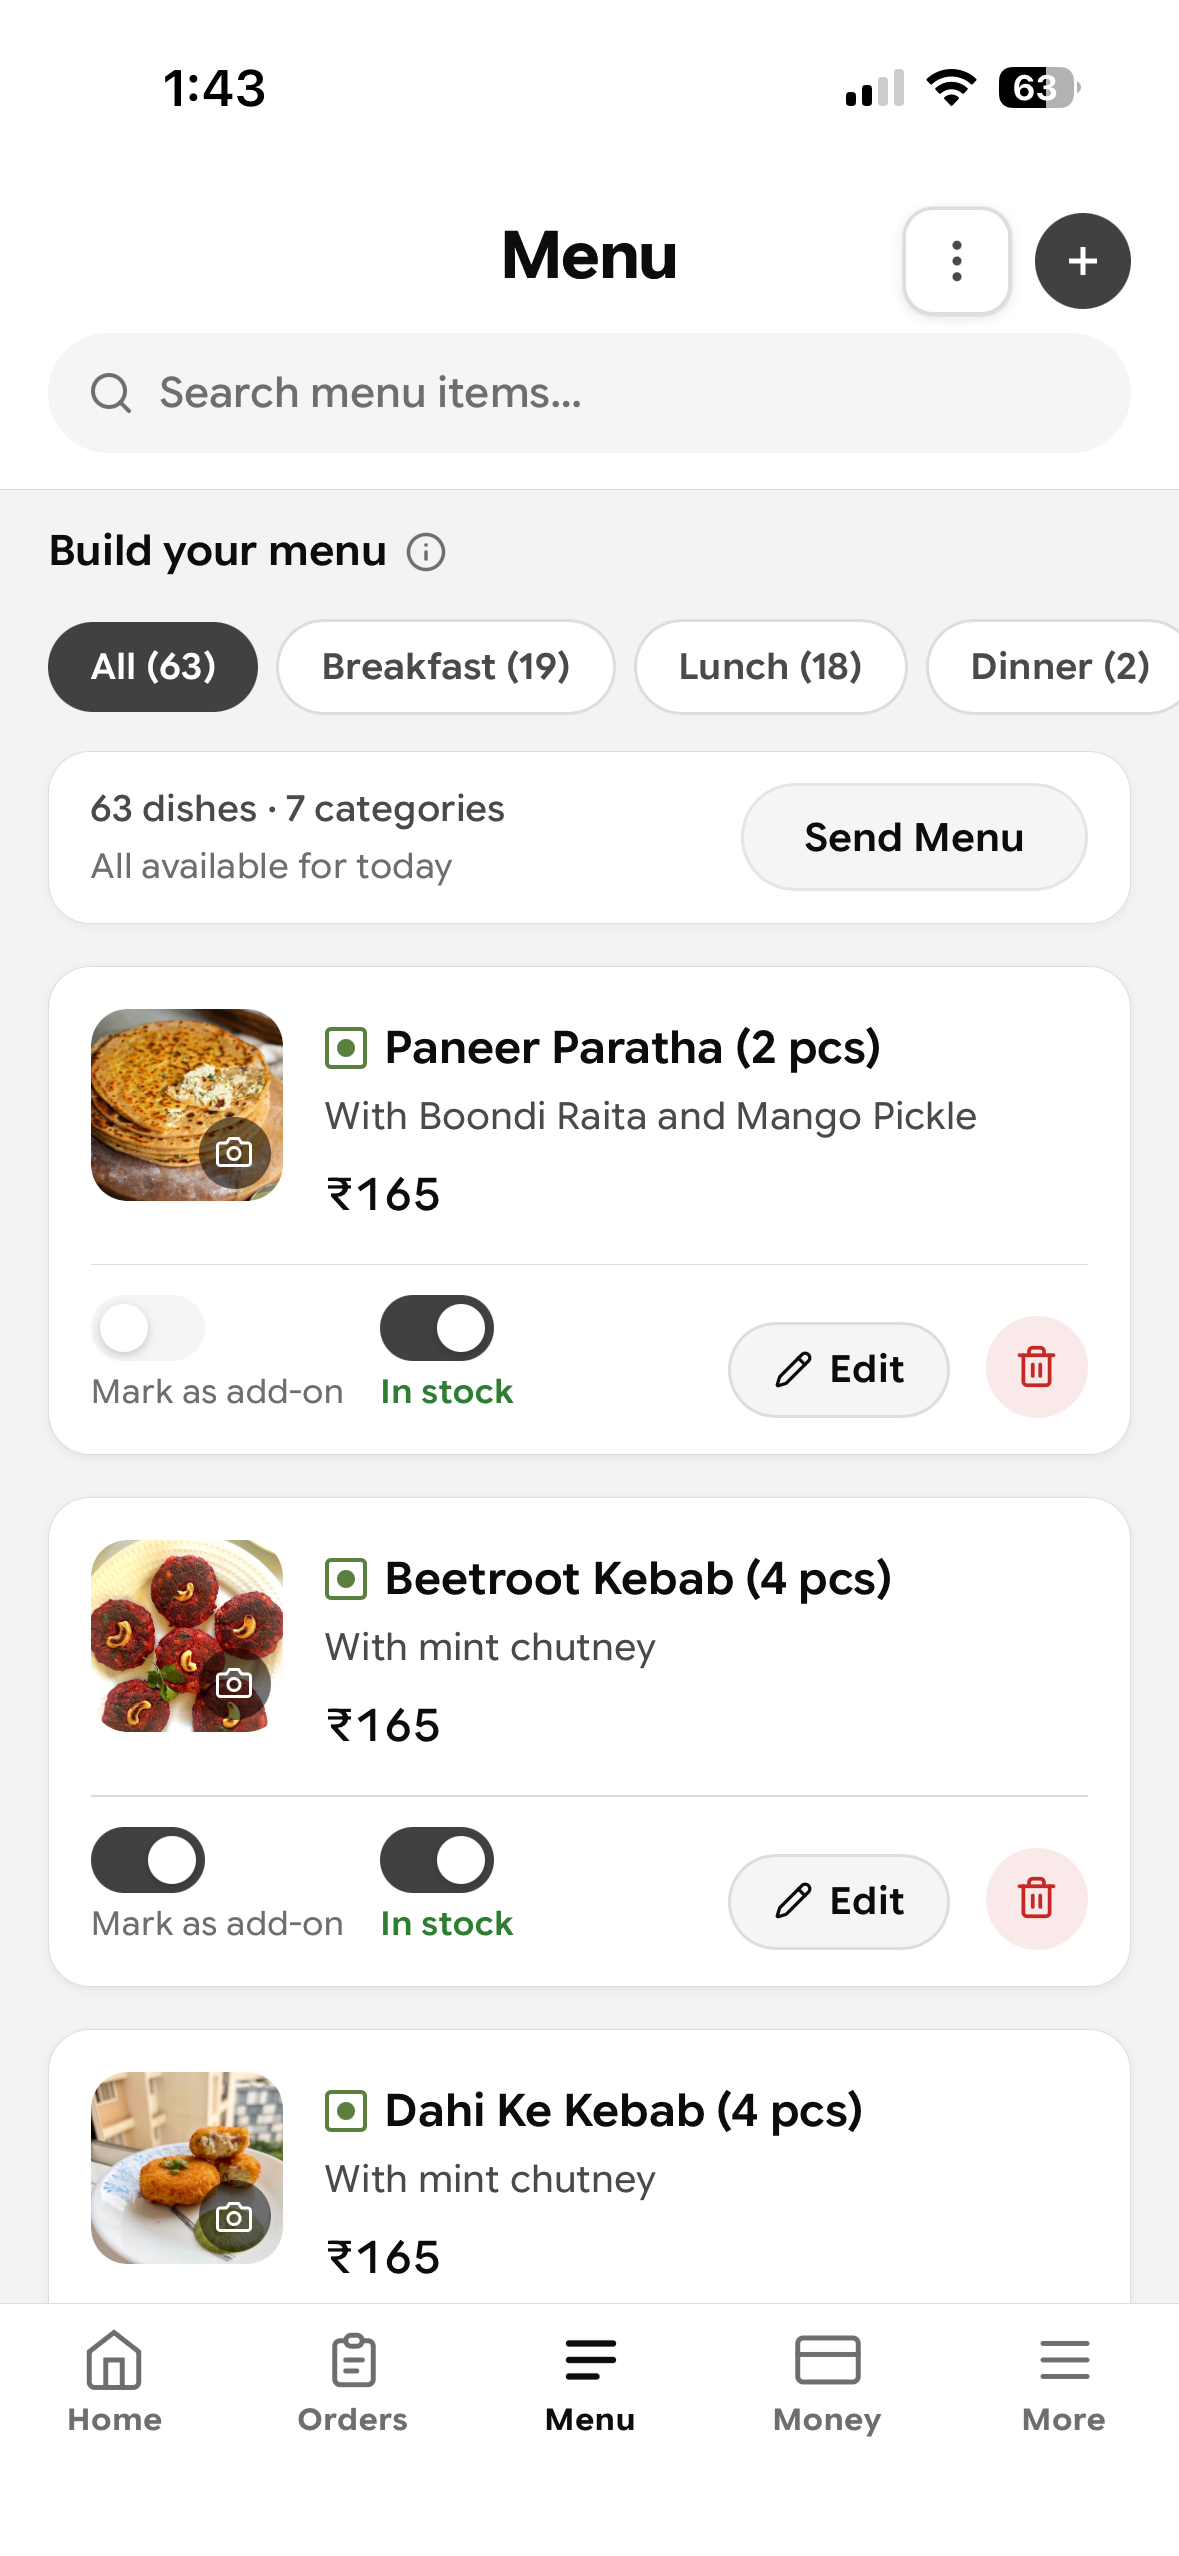
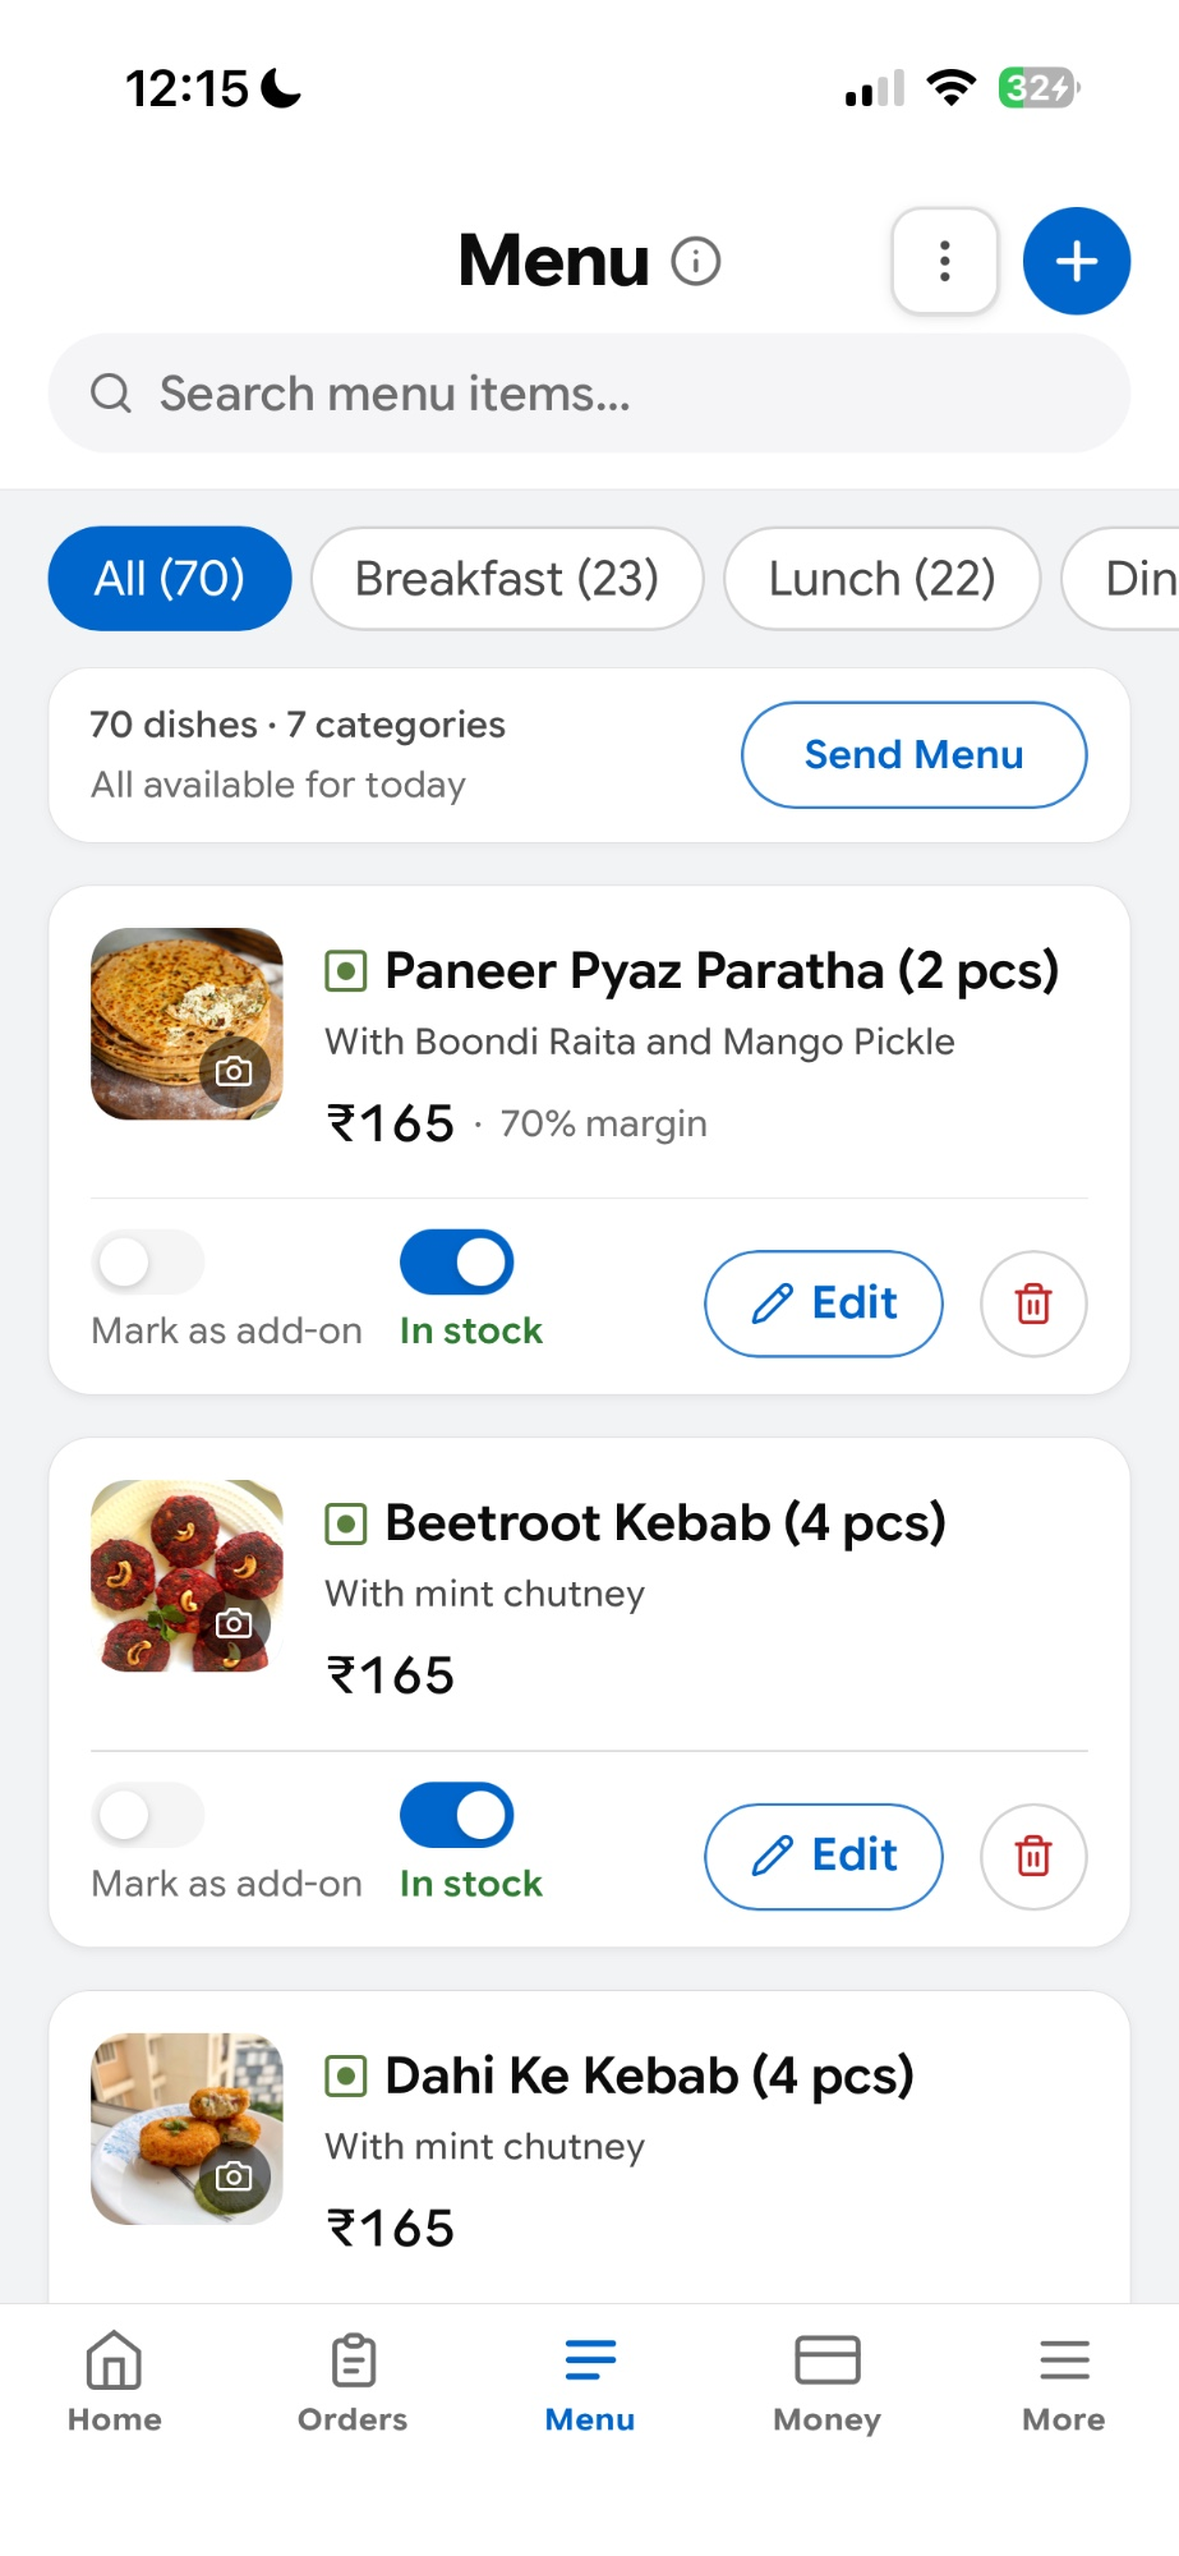
README: current menu screenshot, honest WhatsApp status (#3)
- menu-catalogue.png is a fresh capture of the live kitchen's menu in the
  current UI (70 dishes, 7 categories), replacing the old graphite-theme one.
  Caption updated to match.
- The WhatsApp section's status claimed "tested end to end". It was not:
  the app side was tested, but the WhatsApp connection and the AI reading
  have not yet processed a real message, and the screenshots use demo
  messages. The status line now says exactly that.

Claude-Session: https://claude.ai/code/session_01TQBBUweRNTSFuCZG8AKnme

diff --git a/README.md b/README.md
@@ -143,7 +143,7 @@ The **revenue-by-source** chart is the product thesis proving itself: for the be
 
 <table>
 <tr>
-<td align="center"><img src="screenshots/menu-catalogue.png" width="240" alt="Menu with 63 dishes across 7 categories" /><br/><sub><b>Menu · 63 dishes, 7 categories</b></sub></td>
+<td align="center"><img src="screenshots/menu-catalogue.png" width="240" alt="Menu with 70 dishes across 7 categories" /><br/><sub><b>Menu · 70 dishes, 7 categories</b></sub></td>
 <td align="center"><img src="screenshots/stock-inventory.png" width="240" alt="Stock levels with low and out of stock alerts" /><br/><sub><b>Ingredient stock</b></sub></td>
 <td align="center"><img src="screenshots/import-whatsapp-chat.png" width="240" alt="Import data from Excel, CSV or a WhatsApp chat export" /><br/><sub><b>Import</b></sub></td>
 </tr>
@@ -182,7 +182,7 @@ Today the owner copies an order out of WhatsApp and pastes it in. The next step 
 - The owner taps **Review**, sees the original message above the filled-in order, and taps **Place Order**. **Nothing is ever placed automatically**, so a misread message costs a correction, not a wrong delivery.
 - The model's answer is never trusted blindly: menu items are checked against the real menu server-side, quantities are clamped, and AI reads are capped per kitchen per day so a flood of messages cannot run up a bill.
 
-**Status:** built, deployed and tested end to end against a local copy of the database; waiting on WhatsApp Business account setup before it takes real messages.
+**Status:** the app side (the review list, the filled-in order, placing it) is built and tested; the WhatsApp connection and the AI reading are deployed but have not yet processed a real message, pending WhatsApp Business account setup. The two screenshots use demo messages.
 
 ---
 
